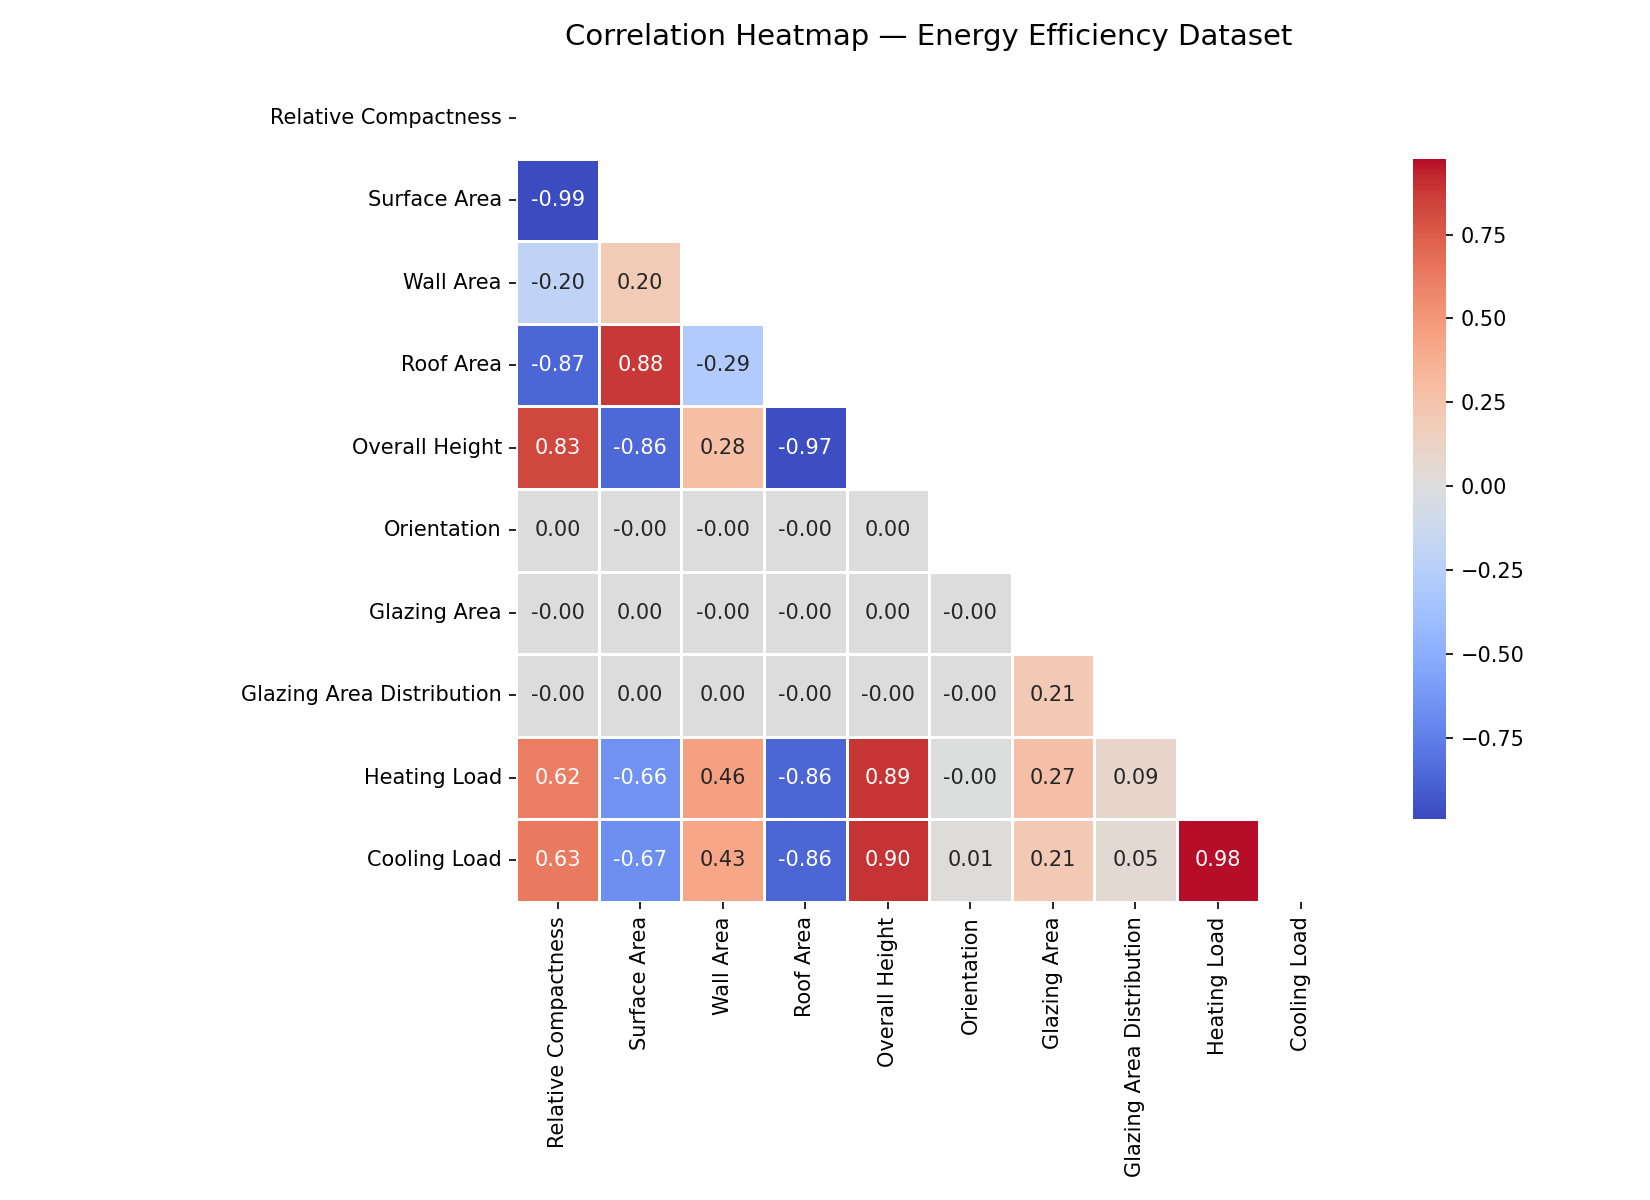
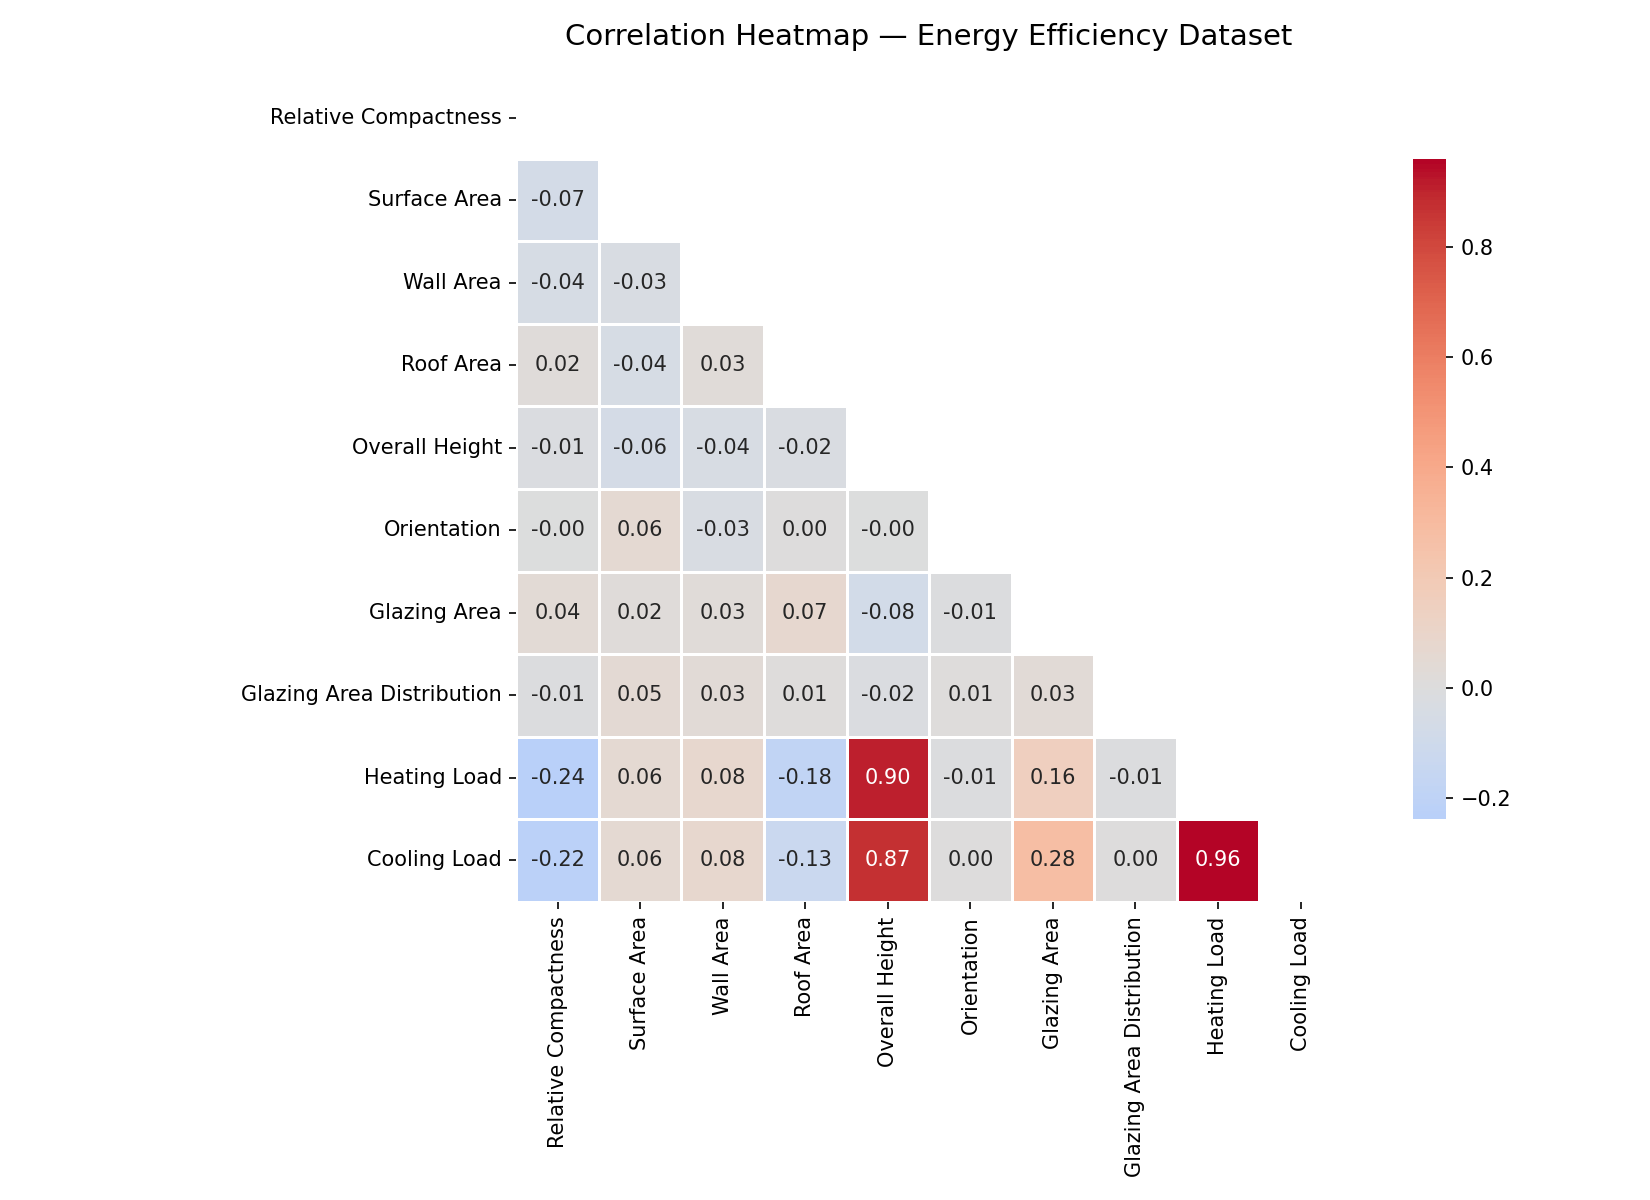
Add actual vs predicted plots for model evaluation

diff --git a/train_model.py b/train_model.py
@@ -219,6 +219,7 @@ def evaluate_model(model, X_test, y_test):
     print("=" * 55)
 
     y_pred = model.predict(X_test)
+    plot_actual_vs_predicted(y_test, y_pred)
     results = {}
 
     for i, name in enumerate(TARGET_NAMES):
@@ -236,6 +237,50 @@ def evaluate_model(model, X_test, y_test):
     _plot_feature_importance(model)
     return results
 
+def plot_actual_vs_predicted(y_test, y_pred):
+    os.makedirs("outputs", exist_ok=True)
+
+    for i, target in enumerate(TARGET_NAMES):
+
+        plt.figure(figsize=(6,6))
+
+        plt.scatter(
+            y_test[:, i],
+            y_pred[:, i],
+            alpha=0.7
+        )
+
+        min_val = min(
+            y_test[:, i].min(),
+            y_pred[:, i].min()
+        )
+
+        max_val = max(
+            y_test[:, i].max(),
+            y_pred[:, i].max()
+        )
+
+        plt.plot(
+            [min_val, max_val],
+            [min_val, max_val],
+            'r--',
+            linewidth=2
+        )
+
+        plt.xlabel("Actual")
+        plt.ylabel("Predicted")
+        plt.title(f"Actual vs Predicted - {target}")
+
+        plt.tight_layout()
+
+        plt.savefig(
+            f"outputs/actual_vs_predicted_{target.replace(' ','_')}.png",
+            dpi=300
+        )
+
+        plt.close()
+
+    print("✔ Actual vs Predicted plots disimpan")
 
 def _plot_feature_importance(model):
     importances = np.mean(